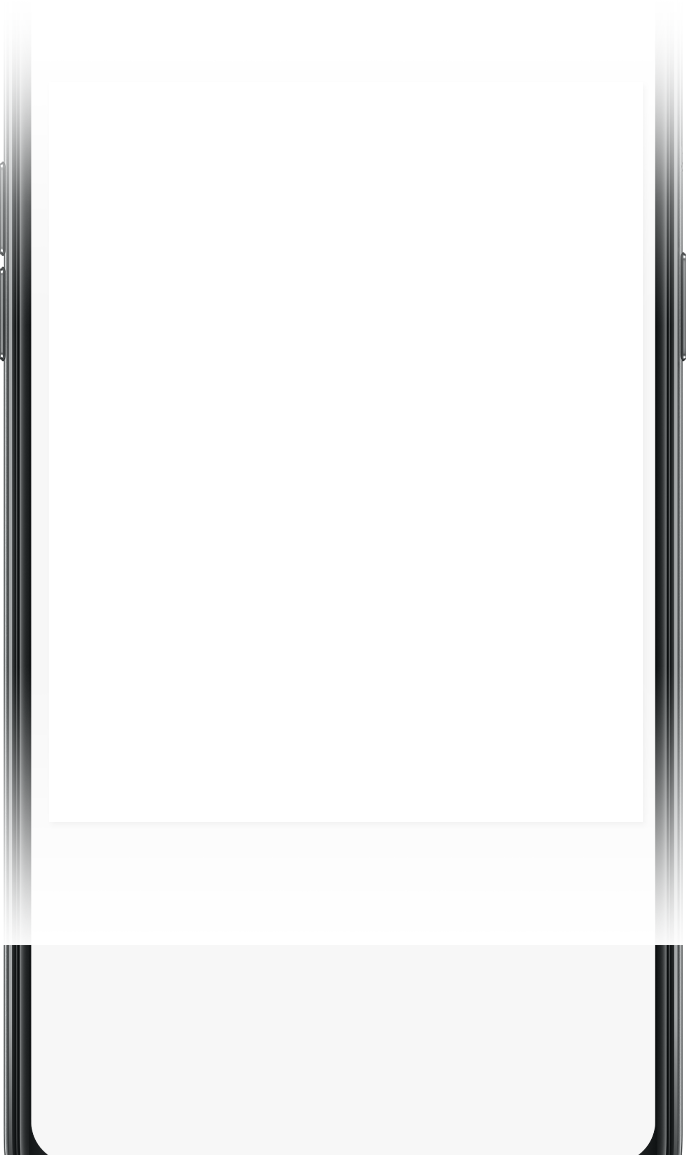
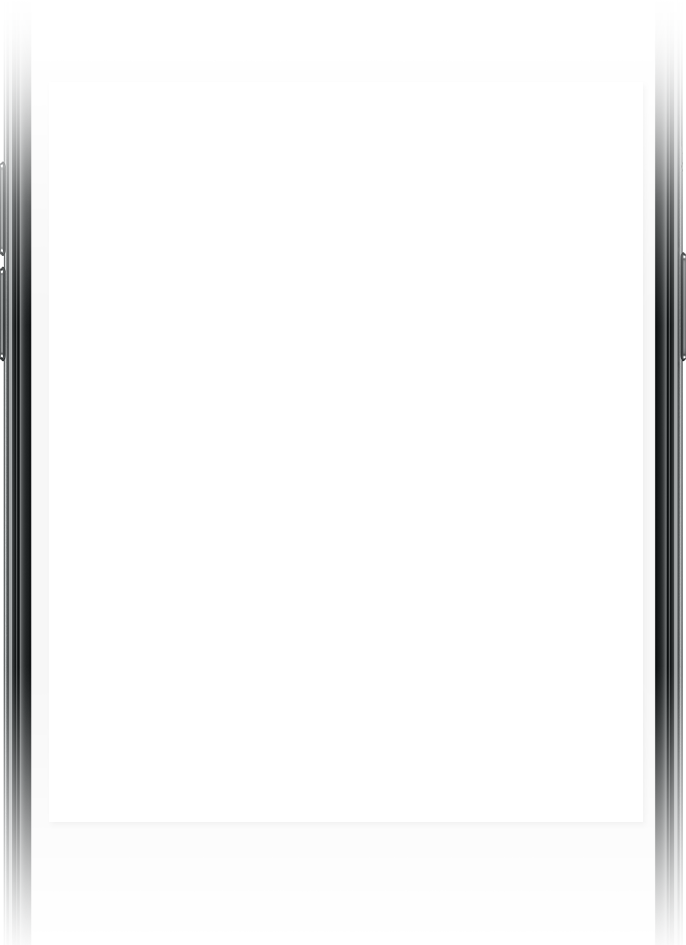
update photo upload

diff --git a/css/styles.css b/css/styles.css
@@ -64,6 +64,7 @@ nav ul li a:hover {opacity:.8}
 .contest-menu {text-align:center; font-size:14px; padding:72px 0 0 0}
 .contest-menu span {color:#505354; opacity:.5}
 .contest-menu span.active {opacity:1}
+.contest-menu span.back {cursor:pointer}
 .contest-menu img {vertical-align:middle; margin:0 17px}
 
 .contest-auth {width:359px; height:740px; position:relative; background:url(../images/contest-auth.png); margin:117px auto 0 auto}
@@ -101,8 +102,12 @@ nav ul li a:hover {opacity:.8}
 .contest-theme-item-next-theme {display:inline-block; vertical-align:middle; font-size:40px}
 .contest-theme-item-next-text {position:absolute; right:42px; top:0; padding:0 43px 0 0; font-size:14px; font-weight:bold; text-transform:uppercase; background:url(../images/contest-theme-item-next.png) no-repeat right center}
 
-.contest-photo {width:686px; height:1155px; background:url(../images/contest-photo.png); margin:0 auto}
-.contest-photo-border {width:580px; height:580px; background:no-repeat center; background-size:cover}
+.contest-photo {width:686px; height:945px; background:url(../images/contest-photo.png); margin:33px auto 0 auto; position:relative}
+.contest-photo-border {width:580px; height:580px; background:no-repeat center; background-size:cover; position:absolute; top:91px; left:50%; margin-left:-290px}
+.contest-photo-links {padding:270px 0 0 189px}
+.contest-photo-upload {float:left; position:relative; overflow:hidden; width:148px; height:148px; border:1px dashed #dedede; background:url(../images/contest-photo-upload.png) no-repeat center; cursor:pointer}
+.contest-photo-upload input {height:200px; position:absolute; top:0; right:0; opacity:0; cursor:pointer; font-size:200px; background:url(../images/blank.gif); -webkit-appearance:none}
+.contest-photo-camera {float:left; position:relative; overflow:hidden; width:148px; height:148px; border:1px dashed #dedede; background:url(../images/contest-photo-camera.png) no-repeat center; margin:0 0 0 20px; cursor:pointer}
 
 .reviews {padding:112px 0 113px 0; position:relative}
 .reviews::before {content:""; display:block; width:221px; height:186px; position:absolute; left:50%; top:-38px; margin-left:110px; background:url(../images/reviews.png)}

diff --git a/index.html b/index.html
@@ -206,7 +206,7 @@
                             <div class="contest-menu">
                                 <span>Авторизуйся</span>
                                 <img src="images/contest-menu.png" alt="" />
-                                <span>Выбери то, что ты любишь</span>
+                                <span class="back contest-menu-back-from-photo">Выбери то, что ты любишь</span>
                                 <img src="images/contest-menu.png" alt="" />
                                 <span class="active">Загрузи своё фото</span>
                                 <img src="images/contest-menu.png" alt="" />
@@ -216,6 +216,10 @@
                             </div>
                             <div class="contest-photo">
                                 <div class="contest-photo-border"></div>
+                                <div class="contest-photo-links">
+                                    <div class="contest-photo-upload"><input type="file" name="file" /></div>
+                                    <div class="contest-photo-camera"></div>
+                                </div>
                             </div>
                         </div>
 

diff --git a/js/tools.js b/js/tools.js
@@ -99,6 +99,10 @@ $(document).ready(function() {
         e.preventDefault();
     });
 
+    $('.contest-menu-back-from-photo').click(function() {
+        $('.contest-list').removeClass('contest-step-photo').addClass('contest-step-theme');
+    });
+
 });
 
 function updateTimer() {
